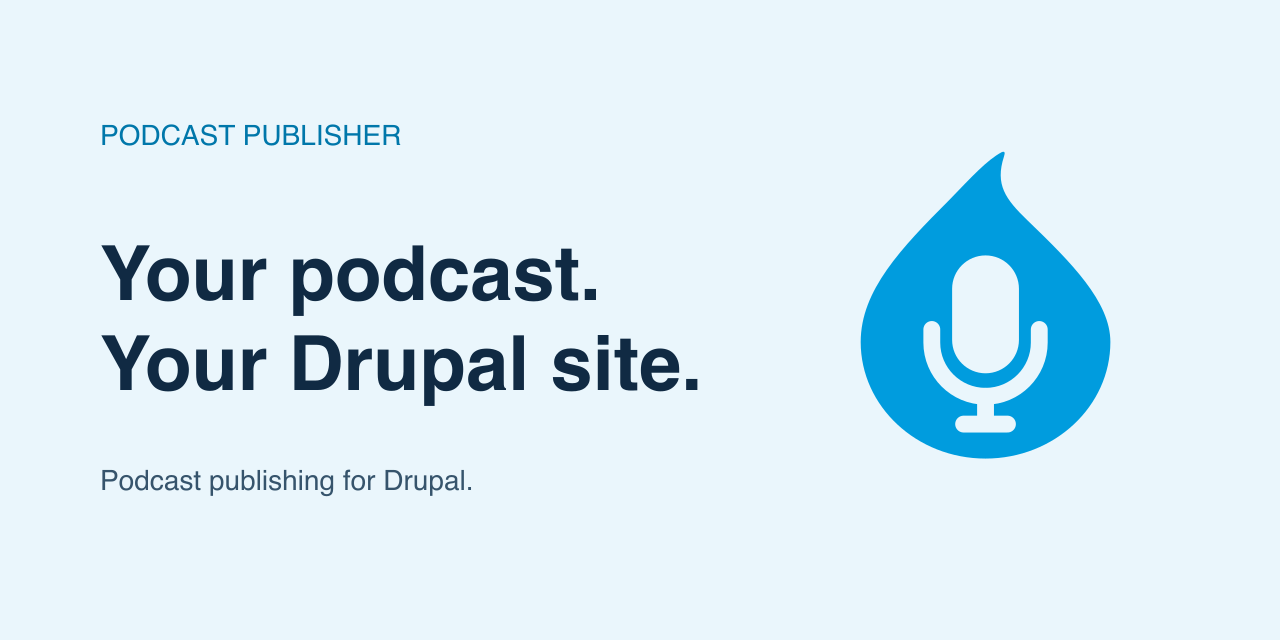
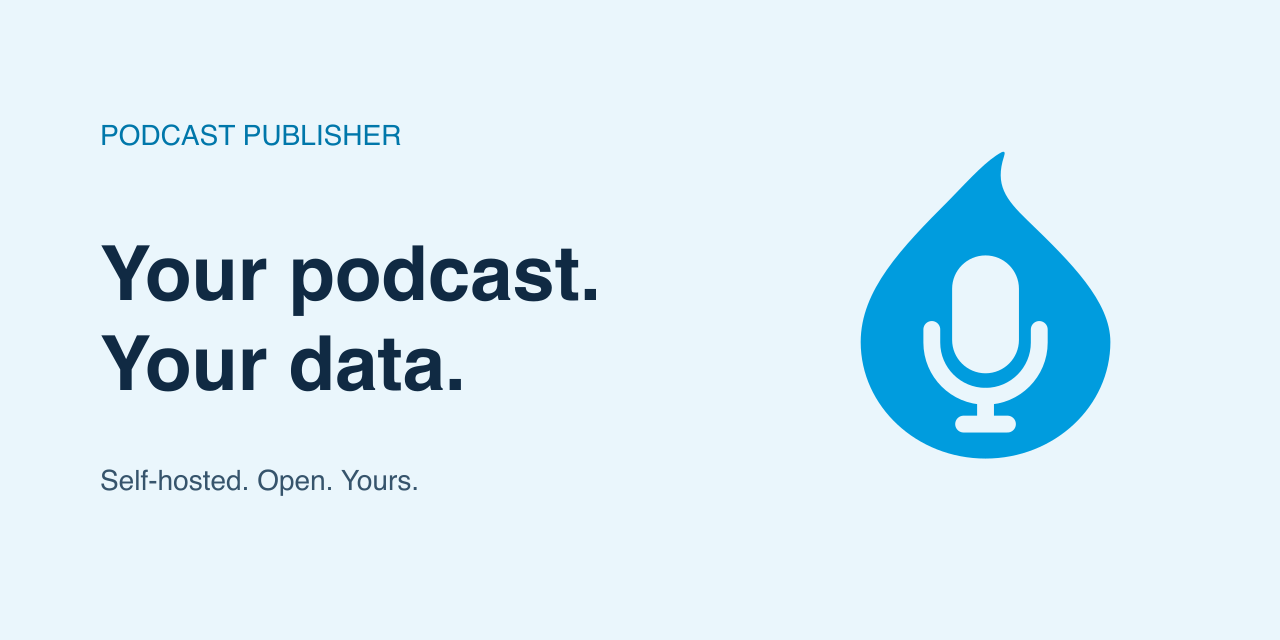
mend

Changed region(s): [[0.2188, 0.5, 0.5625, 0.625], [0.0625, 0.7188, 0.375, 0.7812]]

diff --git a/app/pages/index.vue b/app/pages/index.vue
@@ -1,14 +1,14 @@
 <script setup lang="ts">
 useSeoMeta({
   title: 'Podcast Publisher',
-  titleTemplate: '%s · Podcast publishing for Drupal',
-  description: 'Create podcasts, publish episodes, and share an RSS feed from your Drupal site.',
+  titleTemplate: '%s · Self-hosted podcast publishing',
+  description: 'Own your podcast and your data. Self-host with Drupal and distribute episodes through an open RSS feed on your own domain.',
   ogImage: '/preview.png'
 })
 const paths = [
-  { number: '01', title: 'Set up your site', description: 'Install the module, give editors access, and create your first podcast.', to: '/get-started', label: 'Start with installation' },
+  { number: '01', title: 'Set up your site', description: 'Create a home for your podcast on your own domain, with hosting you control.', to: '/get-started', label: 'Start with installation' },
   { number: '02', title: 'Publish an episode', description: 'Add the recording, write shownotes, and give your episode a home.', to: '/get-started/add-episode', label: 'Follow the publishing guide' },
-  { number: '03', title: 'Share your feed', description: 'Check your RSS feed and share it with listeners and podcast directories.', to: '/get-started/feed', label: 'Find your feed URL' }
+  { number: '03', title: 'Share your feed', description: 'Let listeners subscribe through RSS, and submit your feed to the directories you choose.', to: '/get-started/feed', label: 'Find your feed URL' }
 ]
 </script>
 
@@ -17,9 +17,9 @@ const paths = [
     <section class="home-hero">
       <div class="home-hero-inner">
         <div class="hero-copy">
-          <p class="home-eyebrow">Podcast publishing for Drupal</p>
-          <h1>Your podcast.<br>Your Drupal site.</h1>
-          <p class="hero-description">Create a show, publish episodes, and share your feed. Keep your podcast in the Drupal site you already know.</p>
+          <p class="home-eyebrow">Self-hosted. Open. Yours.</p>
+          <h1>Your podcast.<br>Your data.</h1>
+          <p class="hero-description">Keep your audio, your feed, and your publishing data under your control. Podcast Publisher turns your Drupal site into a self-hosted home for your show.</p>
           <div class="hero-actions">
             <NuxtLink class="home-button" to="/get-started">Start publishing <span aria-hidden="true">→</span></NuxtLink>
             <a class="home-text-link" href="https://www.drupal.org/project/podcast_publisher">View the Drupal project <span aria-hidden="true">↗</span></a>
@@ -32,8 +32,8 @@ const paths = [
     <section class="home-guides" aria-labelledby="guide-heading">
       <div class="guide-intro">
         <p class="home-eyebrow">From setup to your next episode</p>
-        <h2 id="guide-heading">A guide for every step.</h2>
-        <p>For the people building the site and the editors bringing the show to life.</p>
+        <h2 id="guide-heading">Publish on your own terms.</h2>
+        <p>Your site is the source. An open RSS feed connects it to podcast apps and directories, giving your show a place in a decentralized podcast ecosystem.</p>
       </div>
       <div class="home-paths">
         <NuxtLink v-for="path in paths" :key="path.number" :to="path.to" class="home-path">
@@ -44,7 +44,7 @@ const paths = [
         </NuxtLink>
       </div>
       <div class="analytics-strip">
-        <div><h2>Curious about downloads?</h2><p>Set up the optional analytics module and learn what its counts tell you.</p></div>
+        <div><h2>Your analytics, on your site.</h2><p>The optional analytics module stores download intent data in your Drupal database. Learn how to set it up and what it measures.</p></div>
         <NuxtLink class="home-text-link" to="/analytics">Explore analytics <span aria-hidden="true">→</span></NuxtLink>
       </div>
     </section>

diff --git a/app/app.config.ts b/app/app.config.ts
@@ -6,7 +6,7 @@ export default defineAppConfig({
   seo: {
     title: 'Podcast Publisher',
     titleTemplate: '%s · Podcast Publisher',
-    description: 'Create podcasts, publish episodes, and generate RSS feeds from Drupal.'
+    description: 'Own your podcast and your data. Self-host with Drupal and share your show through open RSS.'
   },
   header: {
     title: 'Podcast Publisher',

diff --git a/content/1.get-started/3.episode-page.md b/content/1.get-started/3.episode-page.md
@@ -1,9 +1,20 @@
 ---
 title: Make an episode page
-description: Link a Drupal content page to a published podcast episode.
+description: Add the fields your project needs, then create a page linked to an episode.
 ---
 
 Podcast Publisher installs a **Podcast Episode Page** content type with a **Podcast Episode** reference field. A page is optional, but it gives listeners a dedicated URL and gives the feed item a link to that page.
+
+## Prepare the content type
+
+Before editors create pages, a site builder should add the fields the project needs. The installed content type is a starting point for your site's episode pages.
+
+1. Open **Structure → Content types → Podcast Episode Page → Manage fields** (`/admin/structure/types/manage/podcast_episode_page/fields`).
+2. Add fields for the content you want on the page, such as an introduction, a transcript, guest information, or an image. Choose these to suit your project; they are not required by Podcast Publisher.
+3. Use **Manage form display** to arrange the fields for editors.
+4. Use **Manage display** to choose how those fields appear to listeners.
+
+Keep the installed **Podcast Episode** reference field: it connects the page to its episode. Audio and feed shownotes belong to the referenced episode; adding page fields does not automatically put their contents into the RSS feed.
 
 ## Show the episode selector
 
@@ -13,12 +24,11 @@ On the checked-out alpha9 release, a fresh site's page form may omit the **Podca
 
 1. Open **Content → Add content → Podcast Episode Page** (`/node/add/podcast_episode_page`).
 2. Enter a title and choose the matching episode in **Podcast Episode**. The autocomplete selection includes the episode ID.
-3. Leave **Published** checked when the page should be public, then save it.
+3. Fill in the additional fields configured for your project.
+4. Leave **Published** checked when the page should be public, then save it.
 
 ![The Podcast Episode Page form with an episode reference selected](/images/episode-page.png)
 
-*The Podcast Episode selector was enabled in the local site's form display before this screenshot.*
+*This example shows the basic form with the Podcast Episode selector enabled. Your project's additional fields will also appear here.*
 
 After a page is linked, the episode's feed item uses the page URL in its `<link>` element. Without one, the current alpha9 feed falls back to the site homepage. The audio enclosure still points to the episode's uploaded file or its [analytics tracking URL](/analytics).
-
-You can customize the page's display and add other fields through Drupal's normal content type tools. Those changes do not replace the Podcast Episode entity or its audio file.

diff --git a/content/3.site-building/0.index.md b/content/3.site-building/0.index.md
@@ -6,7 +6,7 @@ description: Configure editor access, episode pages, and feed behavior.
 Podcast Publisher supplies podcast and episode entities, a Podcast Episode Page content type, and a Views feed. Set up editor access before handing the workflow to a publishing team.
 
 - [Permissions](/site-building/permissions) lists the module's roles and access checks.
-- [Episode pages](/get-started/episode-page) explains how to expose the installed episode reference field and connect a node to an episode.
+- [Episode pages](/get-started/episode-page) explains how to add the fields your project needs, expose the episode selector, and create a page linked to an episode.
 - [The feed](/get-started/feed) explains the public URL, default filtering, and the View you can customize.
 - [Analytics](/analytics) covers the optional alpha module and its required View formatter.
 - [Troubleshooting](/site-building/troubleshooting) collects the most common checks.

diff --git a/content/1.get-started/0.index.md b/content/1.get-started/0.index.md
@@ -1,9 +1,11 @@
 ---
 title: Get started
-description: Install Podcast Publisher and publish your first feed.
+description: Set up a self-hosted podcast and publish a feed on your own domain.
 ---
 
-Podcast Publisher adds **Podcast** and **Podcast Episode** content entities to Drupal. It also installs a **Podcast Episode Page** content type for optional pages linked to episodes. It does not create a Media type.
+Podcast Publisher lets you publish from your own Drupal site, with hosting you control and an RSS feed on your own domain. Your site holds your show details and episodes; listeners can subscribe through podcast apps that support RSS.
+
+The module adds **Podcast** and **Podcast Episode** content entities to Drupal. It also installs a **Podcast Episode Page** content type for optional pages linked to episodes. It does not create a Media type.
 
 ## Install
 

diff --git a/content/2.analytics/0.index.md b/content/2.analytics/0.index.md
@@ -5,6 +5,8 @@ description: Set up tracked audio URLs and understand download intent counts.
 
 **Podcast Publisher Analytics** is an optional module labeled **Alpha** in Drupal's podcast menu. It records *download intents* for episode audio and adds a per-podcast report. It is not a listener count or a measure of how much audio someone played.
 
+Download intent records are stored in your Drupal database, and location lookup uses a local GeoLite2 database. You manage this data as part of your own site, including its access, backups, and retention.
+
 ## 1. Install the GeoLite2 City database
 
 The analytics module checks for this exact file when it is enabled:

diff --git a/content/1.get-started/4.feed.md b/content/1.get-started/4.feed.md
@@ -3,6 +3,8 @@ title: Check and share the feed
 description: Find the RSS URL, inspect its contents, and share it with listeners.
 ---
 
+Your RSS feed is the connection between your site and your listeners. It lives on your domain and lets podcast apps fetch episodes from your site. You can share it directly and submit it to the directories you choose.
+
 Each podcast has an RSS feed at:
 
 ```text
